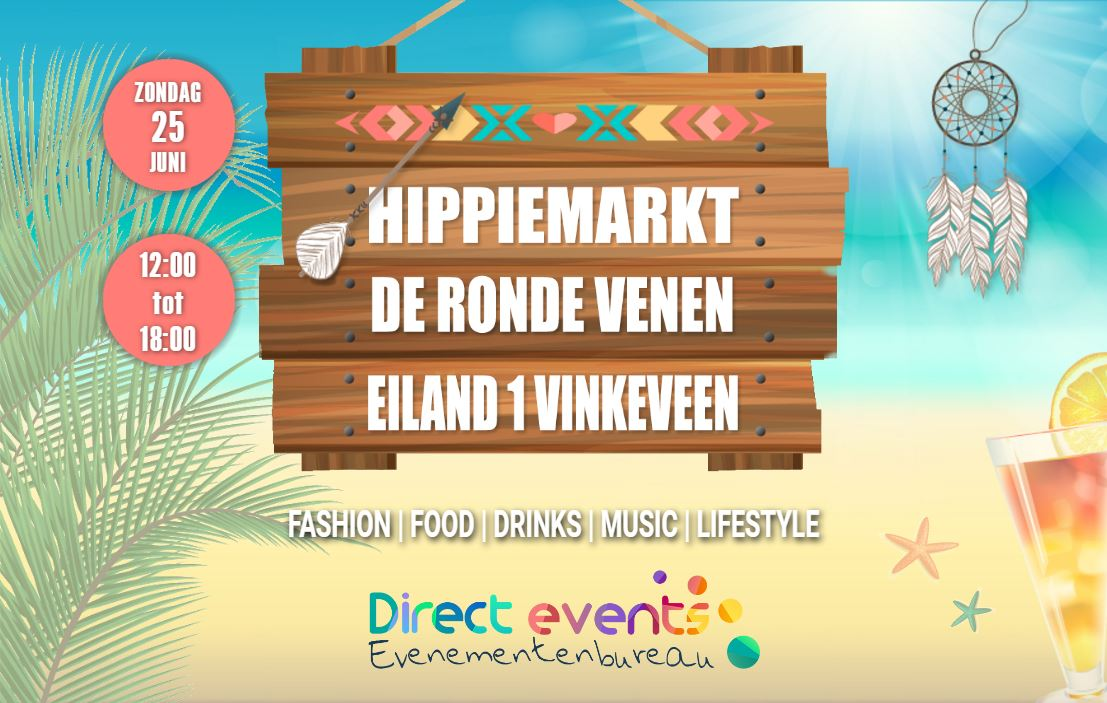
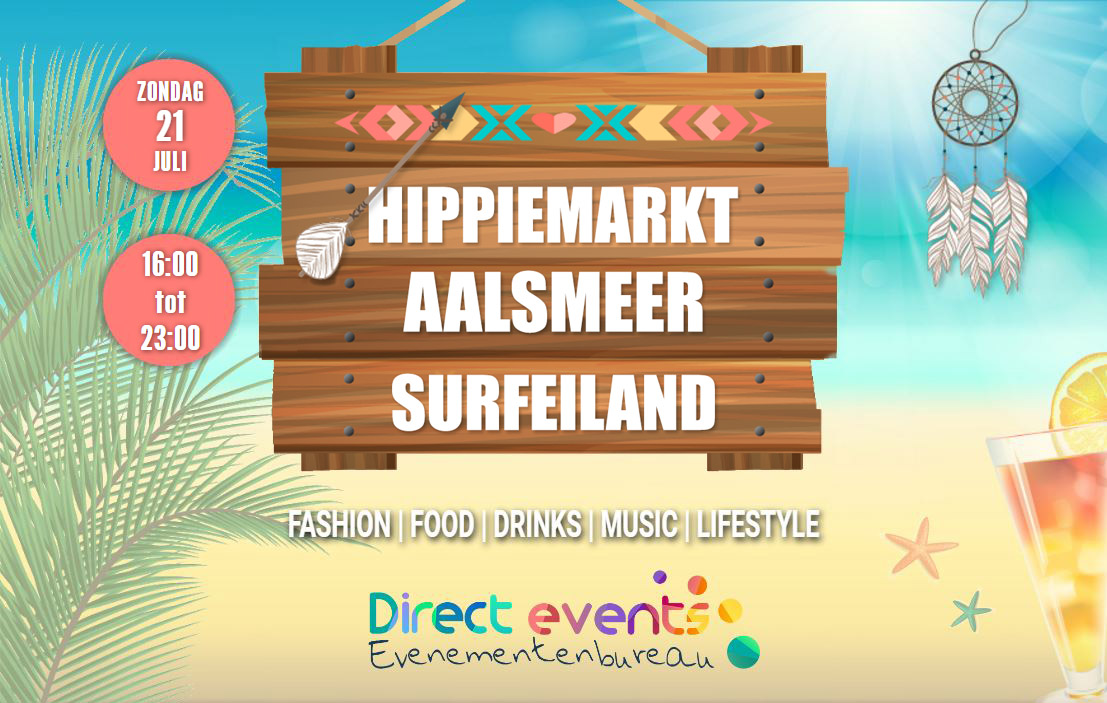
changes

diff --git a/app/resources/views/emails/hippiemarkt-aalsmeer-welcome.blade.php b/app/resources/views/emails/hippiemarkt-aalsmeer-welcome.blade.php
@@ -13,7 +13,7 @@
 		<meta charset="UTF-8">
         <meta http-equiv="X-UA-Compatible" content="IE=edge">
         <meta name="viewport" content="width=device-width, initial-scale=1">
-		<title>Bedankt voor uw aanmelding - Hippiemarkt De Ronde Venen</title>
+		<title>Bedankt voor uw aanmelding - Hippiemarkt Aalsmeer</title>
 
     <style type="text/css">
 		p{
@@ -419,7 +419,7 @@
 
                         <td valign="top" class="mcnTextContent" style="padding-top: 0;padding-left: 18px;padding-bottom: 9px;padding-right: 18px;mso-line-height-rule: exactly;-ms-text-size-adjust: 100%;-webkit-text-size-adjust: 100%;word-break: break-word;color: #656565;font-family: Helvetica;font-size: 12px;line-height: 150%;text-align: left;">
 
-                            Bevestiging aanmelding Hippiemarkt De Ronde Venen
+                            Bevestiging aanmelding Hippiemarkt Aalsmeer
                         </td>
                     </tr>
                 </tbody></table>
@@ -435,7 +435,7 @@
 
                         <td valign="top" class="mcnTextContent" style="padding-top: 0;padding-left: 18px;padding-bottom: 9px;padding-right: 18px;mso-line-height-rule: exactly;-ms-text-size-adjust: 100%;-webkit-text-size-adjust: 100%;word-break: break-word;color: #656565;font-family: Helvetica;font-size: 12px;line-height: 150%;text-align: left;">
 
-                            <a href="http://app.directevents.nl/mail/view/hippiemarkt-de-ronde-venen-welcome" target="_blank" style="mso-line-height-rule: exactly;-ms-text-size-adjust: 100%;-webkit-text-size-adjust: 100%;color: #656565;font-weight: normal;text-decoration: underline;">Mail niet leesbaar of graag in uw browser openen? Klik hier.</a>
+                            <a href="http://app.directevents.nl/mail/view/hippiemarkt-aalsmeer-welcome" target="_blank" style="mso-line-height-rule: exactly;-ms-text-size-adjust: 100%;-webkit-text-size-adjust: 100%;color: #656565;font-weight: normal;text-decoration: underline;">Mail niet leesbaar of graag in uw browser openen? Klik hier.</a>
                         </td>
                     </tr>
                 </tbody></table>
@@ -462,7 +462,7 @@
                             <td class="mcnImageContent" valign="top" style="padding-right: 9px;padding-left: 9px;padding-top: 0;padding-bottom: 0;text-align: center;mso-line-height-rule: exactly;-ms-text-size-adjust: 100%;-webkit-text-size-adjust: 100%;">
 
 
-                                        <img align="center" alt="" src="http://app.directevents.nl/assets/img/hippiemarkt-de-ronde-venen/mail-header.JPG" width="564" style="max-width: 799px;padding-bottom: 0;display: inline !important;vertical-align: bottom;border: 0;height: auto;outline: none;text-decoration: none;-ms-interpolation-mode: bicubic;" class="mcnImage">
+                                        <img align="center" alt="" src="http://app.directevents.nl/assets/img/hippiemarkt-aalsmeer/mail-header.JPG" width="564" style="max-width: 799px;padding-bottom: 0;display: inline !important;vertical-align: bottom;border: 0;height: auto;outline: none;text-decoration: none;-ms-interpolation-mode: bicubic;" class="mcnImage">
 
 
                             </td>
@@ -491,19 +491,20 @@
 
                         <td valign="top" class="mcnTextContent" style="padding-top: 0;padding-right: 18px;padding-bottom: 9px;padding-left: 18px;mso-line-height-rule: exactly;-ms-text-size-adjust: 100%;-webkit-text-size-adjust: 100%;word-break: break-word;color: #202020;font-family: Helvetica;font-size: 16px;line-height: 150%;text-align: left;">
 
+							<strong><em>LET OP: Uw aanmelding is pas definitief na ontvangst van alle overige informatie!</em></strong><br><br>
                             <h1 style="display: block;margin: 0;padding: 0;color: #202020;font-family: Helvetica;font-size: 26px;font-style: normal;font-weight: bold;line-height: 125%;letter-spacing: normal;text-align: left;">Beste standhouder</h1>
 
-<p style="margin: 10px 0;padding: 0;mso-line-height-rule: exactly;-ms-text-size-adjust: 100%;-webkit-text-size-adjust: 100%;color: #202020;font-family: Helvetica;font-size: 16px;line-height: 150%;text-align: left;"><strong>Super dat u deelneemt aan de Hippiemarkt de Ronde Venen op eiland één te Vinkeveen op Zondag 25 juni van 12:00 tot 18:00. </strong><br>
+<p style="margin: 10px 0;padding: 0;mso-line-height-rule: exactly;-ms-text-size-adjust: 100%;-webkit-text-size-adjust: 100%;color: #202020;font-family: Helvetica;font-size: 16px;line-height: 150%;text-align: left;"><strong>Super dat u zich aanmeld voor de Hippiemarkt Aalsmeer op het surfeiland te Aalsmeer op Zondag 21 juli van 16:00 tot 23:00. </strong><br>
 <br>
 <strong><em>Lees deze info goed!</em></strong><br>
-Hippiemarkt De Ronde Venen is onderdeel van Direct Events. Hippiemarkt De Ronde Venen zal van 12:00 tot 18:00 duren. Er zullen ruim 80 kramen aanwezig zijn met verschillende producten in het Ibiza thema. Ook zal er een kidscorner aanwezig zijn voor de kinderen. Verspreid over de locatie zullen verschillende Sangria bars aanwezig zijn. Op het eiland zal een podium met grote bar worden geplaatst. Op het eiland wordt de gehele dag gezorgd voor entertainment (dj’s, dansacts, workshops en meer). In de buurt van de bar het podium zal een groot deel van de food geplaatst worden. De kramen zijn 4 meter en hebben aan beide zijde een loop waar eventueel ruimte is voor een rek.<br>
+Hippiemarkt Aalsmeer is onderdeel van Direct Events. Hippiemarkt Aalsmeer zal van 16:00 tot 23:00 duren. Er zullen ruim 60 kramen aanwezig zijn met verschillende producten in het Ibiza thema. Ook zal er een kidscorner aanwezig zijn voor de kinderen. Verspreid over de locatie zullen verschillende Sangria bars aanwezig zijn. Op het eiland zal een podium met grote bar worden geplaatst. Op het eiland wordt de gehele dag gezorgd voor entertainment (dj’s, dansacts, workshops en meer). In de buurt van de bar het podium zal een groot deel van de food geplaatst worden. Wij maken gebruik van 4 meter kramen.<br>
 <br>
 <strong>LOCATIE:</strong><br>
-<strong>Adres: </strong>Molenkade 30, Vinkeveen<br>
-<strong>Opbouw: </strong>vanaf 09:00<br>
-<strong><em>LET OP: Alle Trucks dienen om 8:00 aanwezig te zijn!  </em></strong><br>
+<strong>Adres: </strong>Surfeiland, Aalsmeer<br>
+<strong>Opbouw: </strong>vanaf 13:30<br>
+<strong><em>LET OP: Alle Trucks dienen om 12:30 aanwezig te zijn!  </em></strong><br>
 <br>
-<strong>Afbouw: </strong>18:00 tot 20:00 <br>
+<strong>Afbouw: </strong>23:00 tot 24:00 <br>
 <br>
 Na het laden en lossen kunnen de auto’s geparkeerd worden op de parkeerplaats bij het eiland. Wij verzoeken iedereen om met 1 auto te komen in verband met de verwachte drukten! (nadere informatie volgt in aanloop van het event).<br>
 <br>
@@ -516,16 +517,16 @@ AANKLEDING KRAAM: </p>
 	<li style="mso-line-height-rule: exactly;-ms-text-size-adjust: 100%;-webkit-text-size-adjust: 100%;">Kraam: Een kraam is 4m lang bij 80cm breed en voorzien van een witte luifel.</li>
 </ul>
 PUBLICITEIT:<br>
-Blijf vooral iedereen uitnodigen om te komen shoppen via de facebookpagina Hippiemarkt De Ronde Venen kun je dit evenement delen. Je staat er niet alleen voor de verkoop van die ene dag. Zorg dat je visitekaartjes/flyers/ander promomateriaal bij je hebt, zodat mensen je later terug kunnen vinden!<br>
+Blijf vooral iedereen uitnodigen om te komen shoppen via de facebookpagina Hippiemarkt Aalsmeer kun je dit evenement delen. Je staat er niet alleen voor de verkoop van die ene dag. Zorg dat je visitekaartjes/flyers/ander promomateriaal bij je hebt, zodat mensen je later terug kunnen vinden!<br>
 Maak zoveel mogelijk reclame voor de markt op je website, twitter, facebook, etc., Zo komen er nog meer mensen en weten jouw vrienden/familie/klanten dat ze jouw producten (weer) in het echt kunnen bewonderen. <br>
 <br>
 Houd de website en Facebook pagina goed in de gaten voor alle overige informatie!<br>
 <br>
-<a target="_blank" href="https://www.facebook.com/events/768595133308430/" style="mso-line-height-rule: exactly;-ms-text-size-adjust: 100%;-webkit-text-size-adjust: 100%;color: #2BAADF;font-weight: normal;text-decoration: underline;">https://www.facebook.com/events/768595133308430/</a><br>
+<a target="_blank" href="https://www.facebook.com/events/1787774984873640/" style="mso-line-height-rule: exactly;-ms-text-size-adjust: 100%;-webkit-text-size-adjust: 100%;color: #2BAADF;font-weight: normal;text-decoration: underline;">https://www.facebook.com/events/1787774984873640/</a><br>
 <br>
-<a target="_blank" href="http://www.hippiemarktderondevenen.nl" style="mso-line-height-rule: exactly;-ms-text-size-adjust: 100%;-webkit-text-size-adjust: 100%;color: #2BAADF;font-weight: normal;text-decoration: underline;">www.hippiemarktderondevenen.nl</a><br>
+<a target="_blank" href="http://www.hippiemarktaalsmeer.nl" style="mso-line-height-rule: exactly;-ms-text-size-adjust: 100%;-webkit-text-size-adjust: 100%;color: #2BAADF;font-weight: normal;text-decoration: underline;">www.hippiemarktaalsmeer.nl</a><br>
 <br>
-CHECK: Laat je kraam netjes achter. Neem je vuilnis na afloop mee naar huis! De markt duurt van 12.00 tot 18.00. We verwachten van de deelnemers dat ze blijven tot 18:00. 
+CHECK: Laat je kraam netjes achter. Neem je vuilnis na afloop mee naar huis! De markt duurt van 16.00 tot 23.00. We verwachten van de deelnemers dat ze blijven tot 23:00. 
 <ul>
 	<li style="mso-line-height-rule: exactly;-ms-text-size-adjust: 100%;-webkit-text-size-adjust: 100%;">Een pinautomaat meenemen is aan te raden. Er zijn namelijk geen pinappareten aanwezig op het eiland</li>
 	<li style="mso-line-height-rule: exactly;-ms-text-size-adjust: 100%;-webkit-text-size-adjust: 100%;">Zorg dat je op tijd bent.</li>
@@ -535,14 +536,11 @@ CHECK: Laat je kraam netjes achter. Neem je vuilnis na afloop mee naar huis! De 
 	<li style="mso-line-height-rule: exactly;-ms-text-size-adjust: 100%;-webkit-text-size-adjust: 100%;">Plaats geen rekken of producten in de doorloop van de bezoekers! Probeer het zoveel mogelijk naast de kraam te zetten, er is ruimte genoeg. </li>
 </ul>
 
-<p style="margin: 10px 0;padding: 0;mso-line-height-rule: exactly;-ms-text-size-adjust: 100%;-webkit-text-size-adjust: 100%;color: #202020;font-family: Helvetica;font-size: 16px;line-height: 150%;text-align: left;"><em>Verdere gedetailleerde informatie over uw factuur, parkeren, contactpersonen ten tijde van het evenement en punt om te melden bij aankomst op het evenement volgt in aanloop van het event.</em><br>
-<br>
-Tot zondag 25 juni op De Hippiemarkt De Ronde Venen!<br>
 <br>
 Met vriendelijke groet,<br>
  <br>
 <br>
-Direct events – Organisatie Hippiemarkt De Ronde Venen</p>
+Direct events – Organisatie Hippiemarkt Aalsmeer</p>
 
                         </td>
                     </tr>
@@ -594,7 +592,7 @@ Direct events – Organisatie Hippiemarkt De Ronde Venen</p>
                                                                         <tbody><tr>
 
                                                                                 <td align="center" valign="middle" width="24" class="mcnFollowIconContent" style="mso-line-height-rule: exactly;-ms-text-size-adjust: 100%;-webkit-text-size-adjust: 100%;">
-                                                                                    <a href="https://www.facebook.com/events/768595133308430/" target="_blank" style="mso-line-height-rule: exactly;-ms-text-size-adjust: 100%;-webkit-text-size-adjust: 100%;"><img src="https://cdn-images.mailchimp.com/icons/social-block-v2/color-facebook-48.png" style="display: block;border: 0;height: auto;outline: none;text-decoration: none;-ms-interpolation-mode: bicubic;" height="24" width="24" class=""></a>
+                                                                                    <a href="https://www.facebook.com/events/1787774984873640/" target="_blank" style="mso-line-height-rule: exactly;-ms-text-size-adjust: 100%;-webkit-text-size-adjust: 100%;"><img src="https://cdn-images.mailchimp.com/icons/social-block-v2/color-facebook-48.png" style="display: block;border: 0;height: auto;outline: none;text-decoration: none;-ms-interpolation-mode: bicubic;" height="24" width="24" class=""></a>
                                                                                 </td>
 
 
